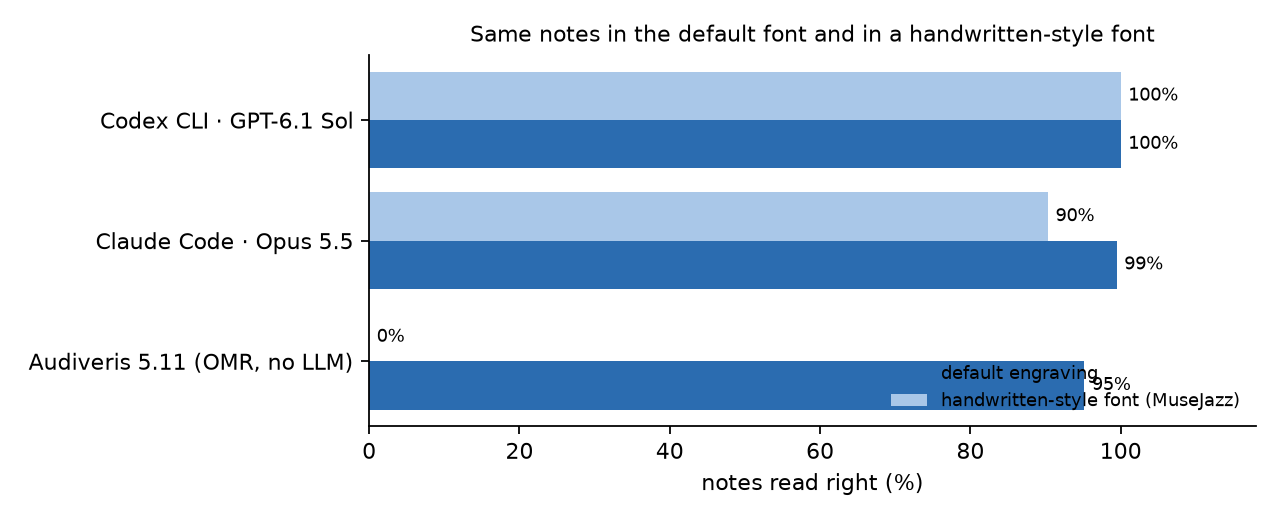
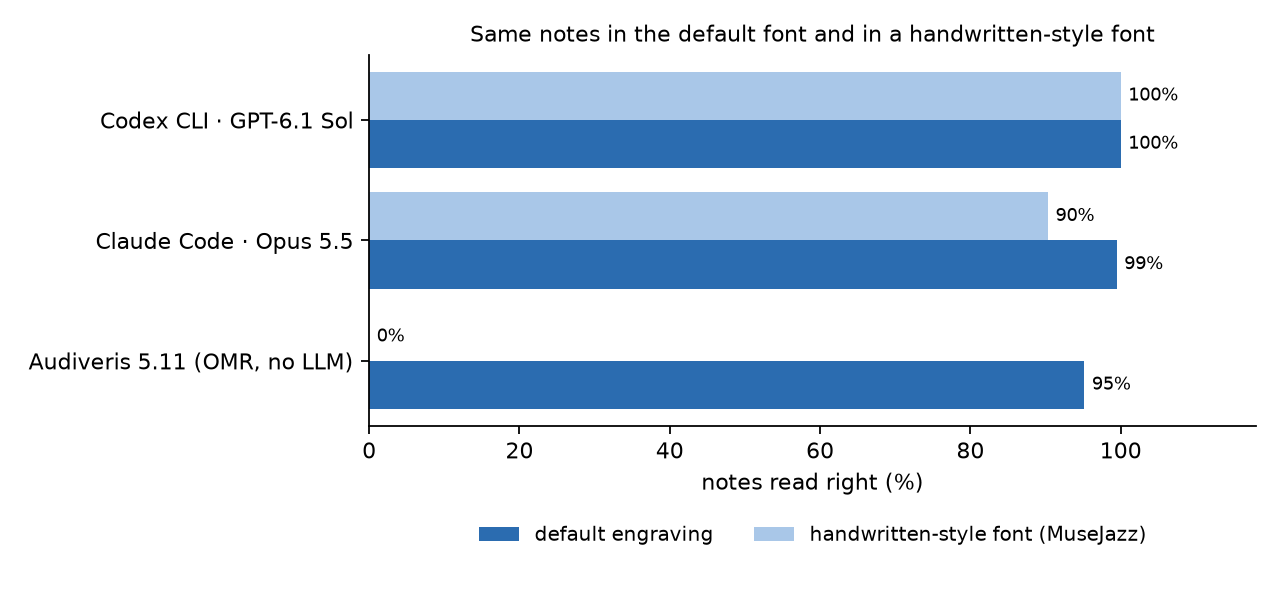
figures: put legends under the charts so they cannot cover bars or labels

diff --git a/docs/make_figures.py b/docs/make_figures.py
@@ -61,7 +61,7 @@ def generations_figure():
     pages = [('solo-1', 'page A'), ('lead-3', 'page B'), ('solo-2', 'page C')]
     pairs = [('Claude Code', 'claude-code+opus-5', 'Opus 5', 'claude-code+opus-5.5', 'Opus 5.5'),
              ('Codex CLI', 'codex-cli+gpt-5.6-sol', 'GPT-5.6 Sol', 'codex-cli+gpt-6.1-sol', 'GPT-6.1 Sol')]
-    fig, axes = plt.subplots(1, 2, figsize=(9, 3.6), sharey=True)
+    fig, axes = plt.subplots(1, 2, figsize=(9, 4.0), sharey=True)
     for ax, (cli, old, old_name, new, new_name) in zip(axes, pairs):
         x = range(len(pages))
         a = ax.bar([i - 0.2 for i in x], [pct(old, p) for p, _ in pages], 0.4, color=GREY, label=old_name)
@@ -69,7 +69,8 @@ def generations_figure():
         for bar in list(a) + list(b):
             ax.text(bar.get_x() + bar.get_width() / 2, bar.get_height() + 1.5, f'{bar.get_height():.0f}%', ha='center', fontsize=8)
         ax.set_xticks(list(x)); ax.set_xticklabels([n for _, n in pages]); ax.set_ylim(0, 112)
-        ax.set_title(cli, fontsize=10); ax.legend(frameon=False, fontsize=8, loc='center left')
+        ax.set_title(cli, fontsize=10)
+        ax.legend(frameon=False, fontsize=9, loc='upper center', bbox_to_anchor=(0.5, -0.1), ncol=2)
         ax.spines[['top', 'right']].set_visible(False)
     axes[0].set_ylabel('notes read right (%)')
     fig.suptitle('One model generation apart, same pages, same CLI', fontsize=11)
@@ -77,7 +78,7 @@ def generations_figure():
 
 
 def paired_figure(filename, title, products, left, right, left_label, right_label, missing):
-    fig, ax = plt.subplots(figsize=(8, 0.55 * len(products) + 1.6))
+    fig, ax = plt.subplots(figsize=(8, 0.55 * len(products) + 2.1))
     y = range(len(products))
     lv, rv = [pct(p, *left) for p in products], [pct(p, *right) for p in products]
     a = ax.barh([i + 0.2 for i in y], [v or 0 for v in lv], 0.4, color=BLUE, label=left_label)
@@ -85,7 +86,7 @@ def paired_figure(filename, title, products, left, right, left_label, right_labe
     label_bars(ax, a, lv); label_bars(ax, b, rv, missing=missing)
     ax.set_yticks(list(y)); ax.set_yticklabels([NAME[p] for p in products]); ax.invert_yaxis()
     ax.set_xlim(0, 118); ax.set_xlabel('notes read right (%)'); ax.set_title(title, fontsize=10)
-    ax.legend(frameon=False, fontsize=8, loc='lower right'); ax.spines[['top', 'right']].set_visible(False)
+    ax.legend(frameon=False, fontsize=9, loc='upper center', bbox_to_anchor=(0.5, -0.22), ncol=2); ax.spines[['top', 'right']].set_visible(False)
     fig.tight_layout(); fig.savefig(OUT / filename, dpi=160); plt.close(fig)
 
 
